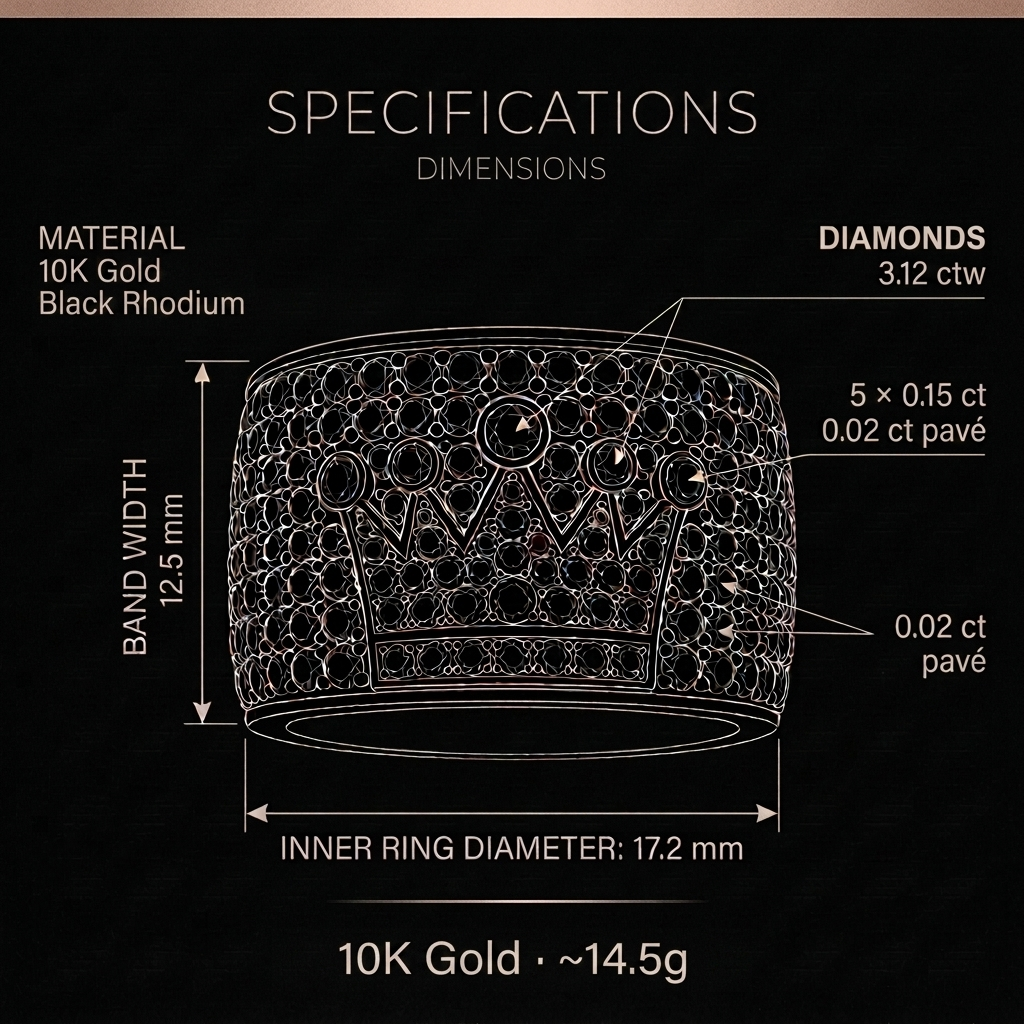
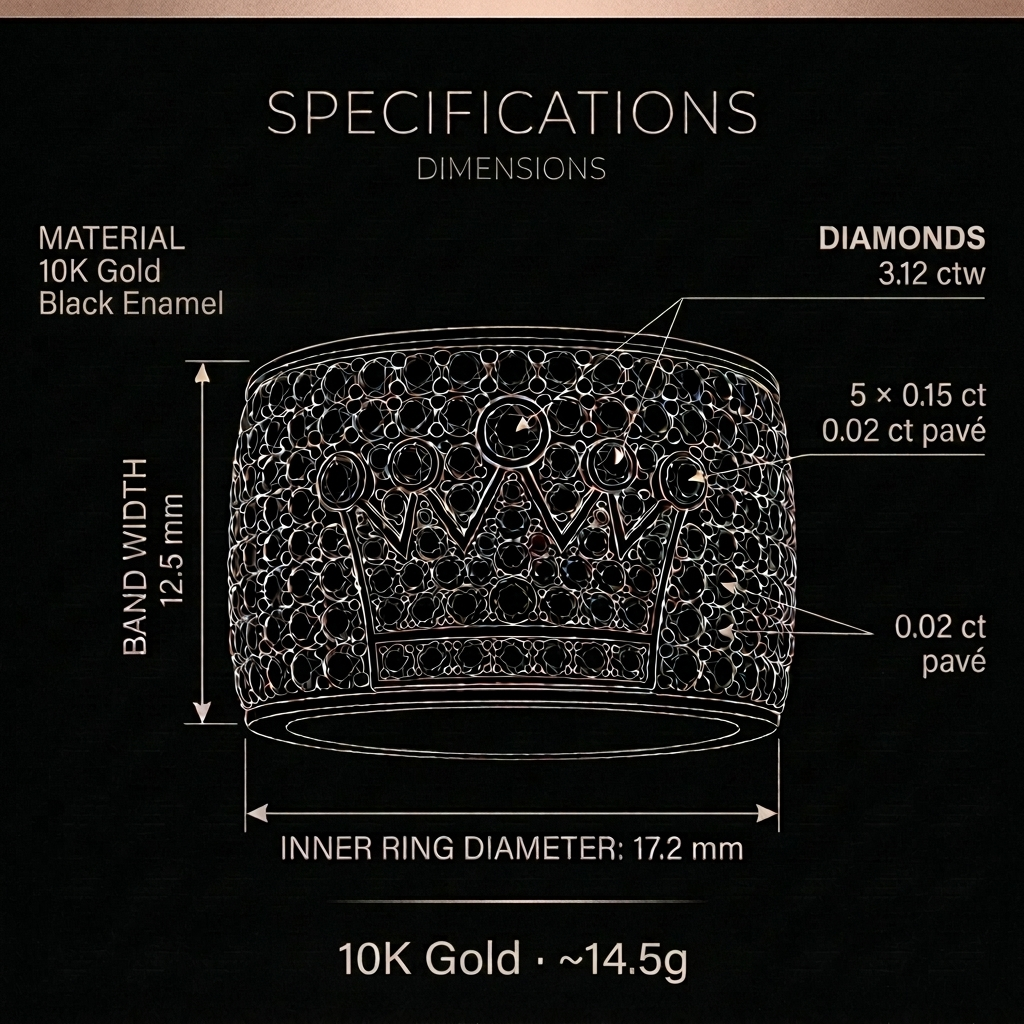
auto-commit for 2040a7aa-b877-4929-84bd-57bb94a1f54f

Changed region(s): [[0.125, 0.2812, 0.25, 0.3125], [0.75, 0.5938, 0.7812, 0.625], [0.5625, 0.5625, 0.5938, 0.5938]]

diff --git a/frontend/src/data/products.js b/frontend/src/data/products.js
@@ -2034,22 +2034,22 @@ This is expression — under control.`,
       foundation: {
         label: "FOUNDATION",
         name: "Foundation",
-        metal: "925 Silver · Black Rhodium",
+        metal: "925 Silver · Black Enamel",
         stones: "High-Impact Stones",
         badge: "",
-        description: "925 silver, black rhodium finish. High-impact stones.",
+        description: "925 silver with black enamel. High-impact stones.",
       },
       signature: {
         label: "SIGNATURE",
         name: "Signature",
-        metal: "10K Gold · Black Rhodium",
+        metal: "10K Gold · Black Enamel",
         stones: "Lab Diamonds",
         badge: "MOST POPULAR",
-        description: "10K gold, black rhodium finish. Lab diamonds.",
+        description: "10K gold with black enamel. Lab diamonds.",
       },
     },
 
-    specs: "Pavé crown band · Black rhodium finish · Wide band",
+    specs: "Pavé crown band · Black enamel · Wide band",
 
     gallery: [
       { type: "image", src: "https://customer-assets.emergentagent.com/job_0967ced5-e732-403d-b891-6f292f5aebbc/artifacts/j97q3uqn_1000148293.png", alt: "Prise de Couronne — pavé crown band", intent: "HERO" },

diff --git a/frontend/src/pages/CouronnePage.jsx b/frontend/src/pages/CouronnePage.jsx
@@ -288,7 +288,7 @@ export default function CouronnePage() {
             className="space-y-2.5 text-[14px] leading-relaxed text-white/80"
             style={{ fontFamily: "'Playfair Display', serif" }}
           >
-            <li>925 silver or 10K gold, black rhodium finish.</li>
+            <li>925 silver or 10K gold, with black enamel.</li>
             <li>Black enamel field.</li>
             <li>Black diamond pavé.</li>
             <li>Five bezel-set white diamond crown points.</li>
@@ -340,8 +340,8 @@ export default function CouronnePage() {
             style={{ fontFamily: "'Playfair Display', serif" }}
           >
             <p>
-              Black enamel beneath the stone field gives the darkness depth no
-              finish can replicate.
+              Black enamel sits beneath the stone field, giving the darkness
+              depth no metal finish can replicate.
             </p>
             <p>
               Black pavé absorbs the light.

diff --git a/scripts/edit_couronne_specs_v2.py b/scripts/edit_couronne_specs_v2.py
@@ -1,0 +1,64 @@
+"""
+Update Prise de Couronne SPECIFICATIONS diagram:
+  "Black Rhodium" -> "Black Enamel"
+Preserve everything else exactly.
+"""
+import asyncio
+import os
+import base64
+from dotenv import load_dotenv
+from emergentintegrations.llm.chat import LlmChat, UserMessage, ImageContent
+
+load_dotenv("/app/backend/.env")
+
+SOURCE_PATH = "/app/frontend/public/images/prise-de-couronne-specifications.png"
+OUT_PATH = "/app/frontend/public/images/prise-de-couronne-specifications.png"
+
+PROMPT = """Edit ONLY one text label in this product specifications diagram. Do not redraw or modify the ring illustration, dimension arrows, lines, layout, fonts, or color palette. Make only this EXACT text replacement, preserving the original font, size, color, and position:
+
+In the upper-left MATERIAL section, change "Black Rhodium" to "Black Enamel".
+
+Keep ABSOLUTELY EVERYTHING ELSE identical, including but not limited to: SPECIFICATIONS title, DIMENSIONS subtitle, "MATERIAL" label, "10K Gold" label, "DIAMONDS" / "3.12 ctw", "5 × 0.15 ct" / "0.02 ct pavé", "0.02 ct pavé" callouts, BAND WIDTH 12.5 mm, INNER RING DIAMETER 17.2 mm, the bottom caption "10K Gold · ~14.5g", the wireframe ring illustration, the dark background, and the rose-gold border accents at the top and bottom edges. Output the full image at the same dimensions and aspect ratio."""
+
+
+async def main() -> None:
+    with open(SOURCE_PATH, "rb") as f:
+        src_bytes = f.read()
+    print(f"Source image size: {len(src_bytes)} bytes")
+
+    image_b64 = base64.b64encode(src_bytes).decode("utf-8")
+
+    api_key = os.getenv("EMERGENT_LLM_KEY")
+    if not api_key:
+        raise RuntimeError("EMERGENT_LLM_KEY missing")
+
+    chat = LlmChat(
+        api_key=api_key,
+        session_id="couronne-specs-edit-v2",
+        system_message="You are a precise image editor that makes minimal, targeted text replacements while preserving everything else exactly.",
+    )
+    chat.with_model("gemini", "gemini-3.1-flash-image-preview").with_params(
+        modalities=["image", "text"]
+    )
+
+    msg = UserMessage(text=PROMPT, file_contents=[ImageContent(image_b64)])
+
+    print("Calling Nano Banana...")
+    text, images = await chat.send_message_multimodal_response(msg)
+    print(f"Text response (first 200 chars): {str(text)[:200]}")
+    print(f"Image count: {len(images) if images else 0}")
+
+    if not images:
+        raise RuntimeError("No image returned")
+
+    img = images[0]
+    print(f"Returned mime_type: {img.get('mime_type')}")
+
+    out_bytes = base64.b64decode(img["data"])
+    with open(OUT_PATH, "wb") as f:
+        f.write(out_bytes)
+    print(f"Wrote {len(out_bytes)} bytes -> {OUT_PATH}")
+
+
+if __name__ == "__main__":
+    asyncio.run(main())
